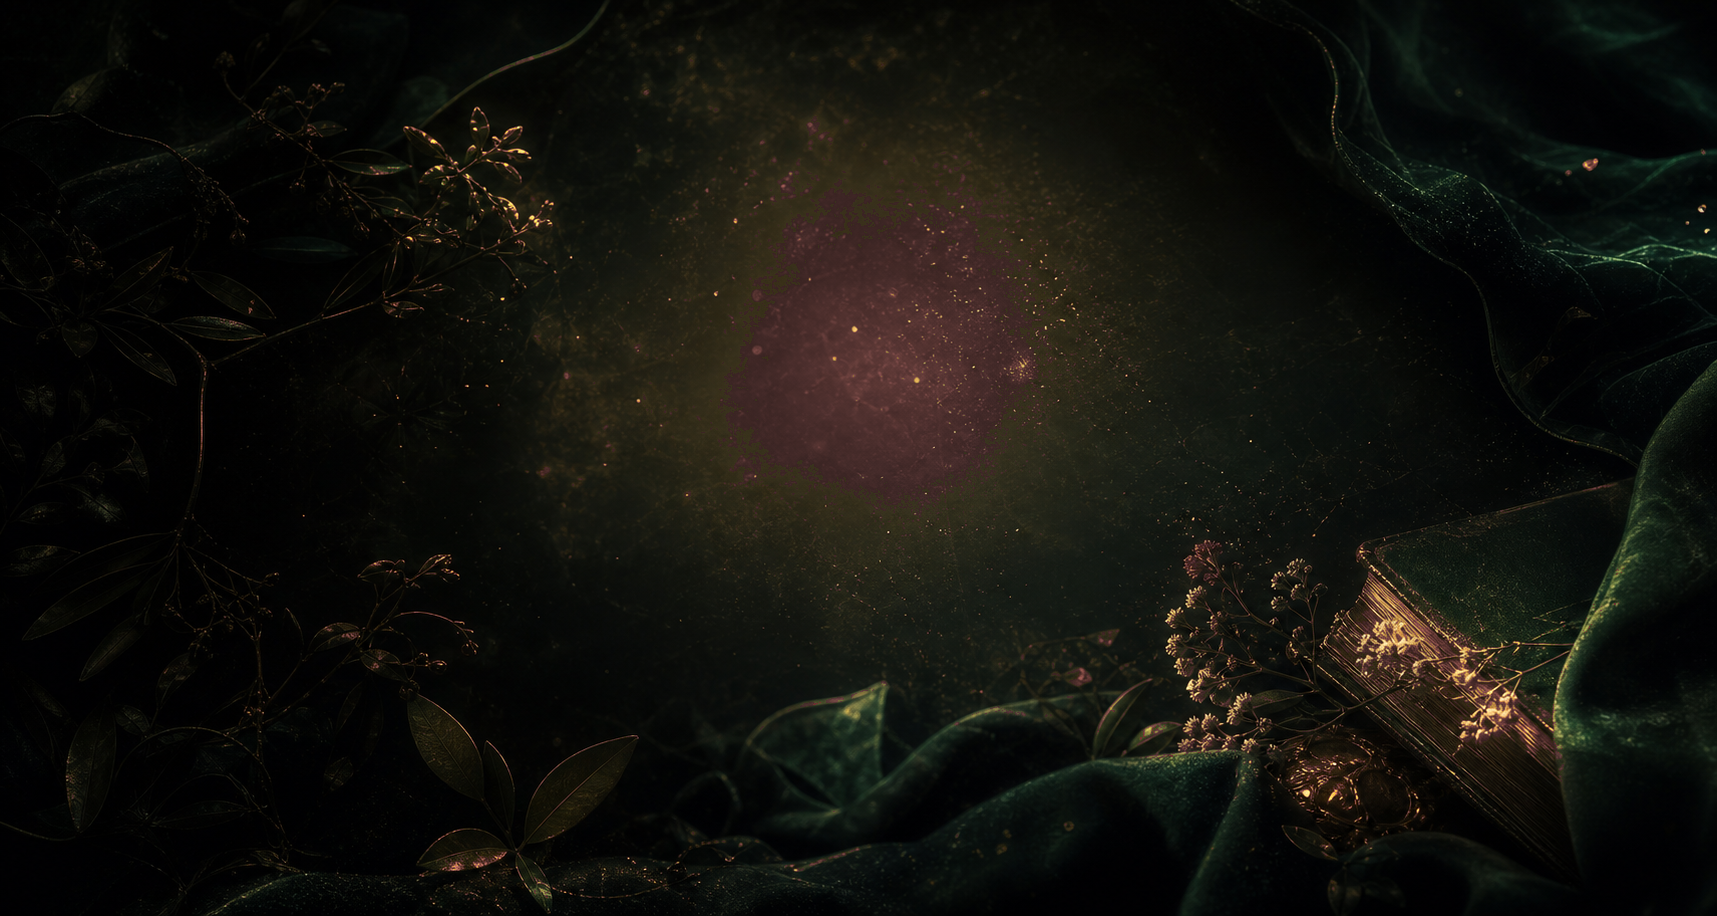
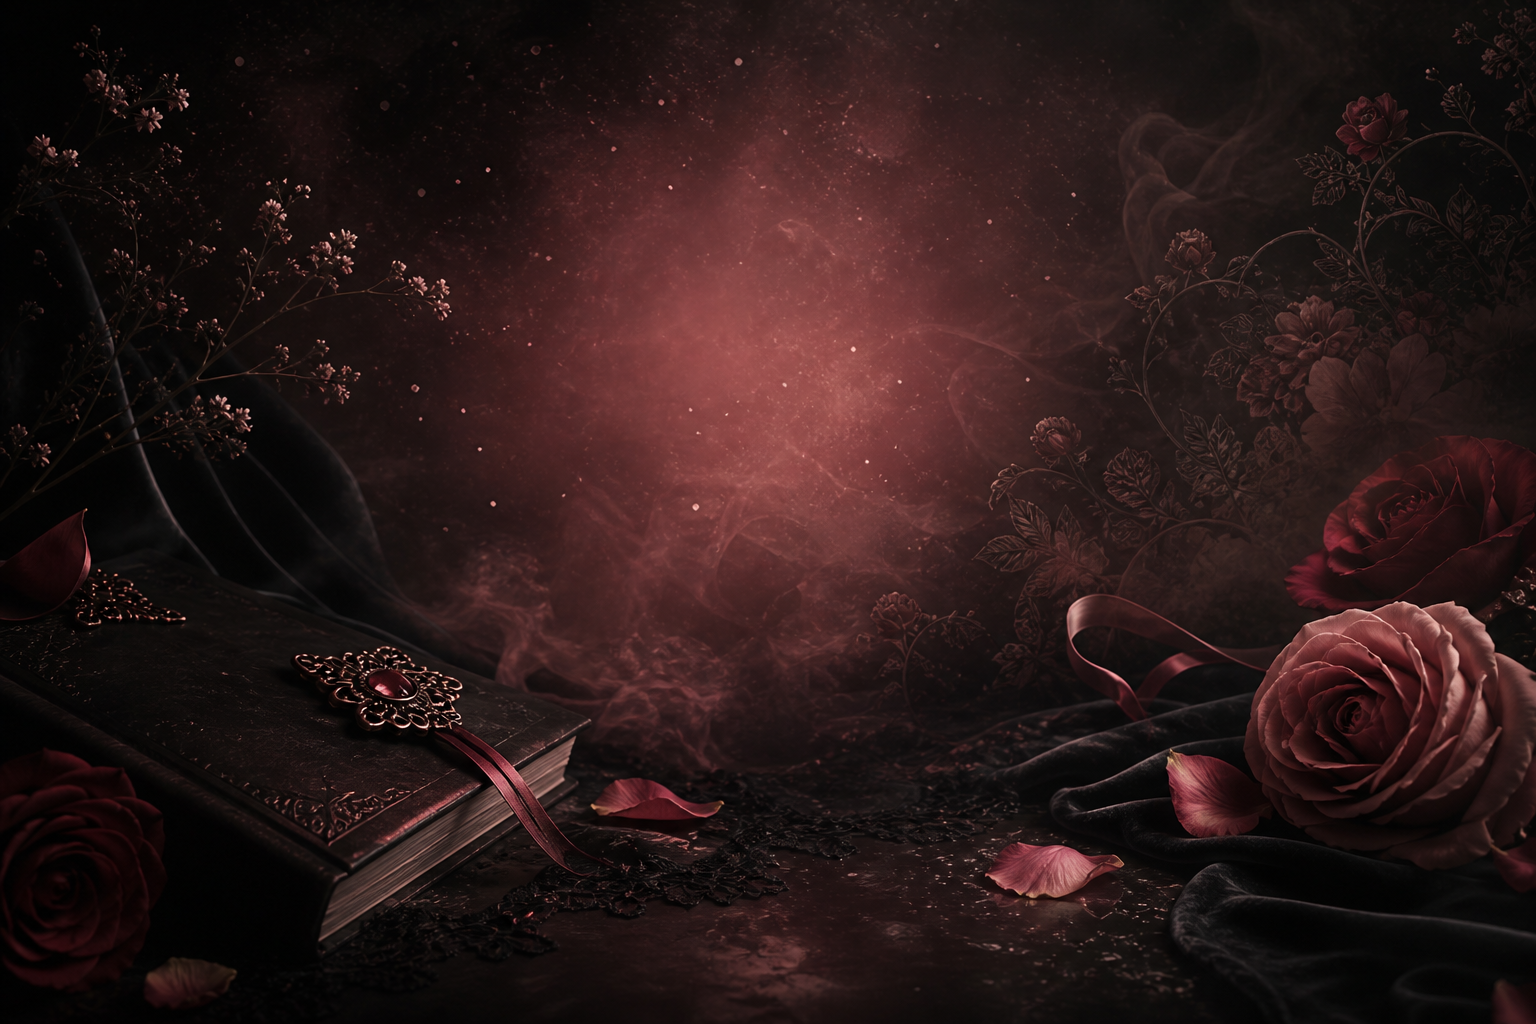
Make background and book cover more romantic

diff --git a/src/styles/global.css b/src/styles/global.css
@@ -39,7 +39,7 @@ body {
   margin: 0;
   min-width: 320px;
   background:
-    linear-gradient(180deg, rgba(13, 13, 13, 0.92), rgba(10, 36, 29, 0.82) 50%, rgba(13, 13, 13, 0.98)),
+    linear-gradient(180deg, rgba(13, 13, 13, 0.96), rgba(75, 8, 19, 0.44) 48%, rgba(13, 13, 13, 0.98)),
     var(--black);
   color: var(--ivory);
   font-family: var(--sans);
@@ -157,8 +157,8 @@ p {
   border: 1px solid rgba(192, 128, 136, 0.45);
   border-radius: 50%;
   background:
-    linear-gradient(145deg, rgba(18, 60, 47, 0.8), rgba(13, 13, 13, 0.98)),
-    var(--green-dark);
+    linear-gradient(145deg, rgba(75, 8, 19, 0.72), rgba(13, 13, 13, 0.98)),
+    var(--black);
   color: var(--ivory);
   font-family: var(--serif);
   font-size: 1.04rem;
@@ -252,8 +252,8 @@ p {
 .hero-vignette {
   z-index: -3;
   background:
-    linear-gradient(180deg, rgba(13, 13, 13, 0.68), rgba(13, 13, 13, 0.14) 42%, rgba(13, 13, 13, 0.9)),
-    radial-gradient(circle at 50% 50%, rgba(192, 128, 136, 0.18), rgba(18, 60, 47, 0.18) 34%, rgba(13, 13, 13, 0.72) 72%);
+    linear-gradient(180deg, rgba(13, 13, 13, 0.64), rgba(13, 13, 13, 0.1) 42%, rgba(13, 13, 13, 0.82)),
+    radial-gradient(circle at 50% 48%, rgba(192, 128, 136, 0.24), rgba(158, 31, 54, 0.18) 33%, rgba(13, 13, 13, 0.72) 72%);
 }
 
 .particle-field {
@@ -341,7 +341,7 @@ p {
   border-radius: 8px;
   padding: 0 22px;
   background:
-    linear-gradient(135deg, rgba(192, 128, 136, 0.2), rgba(18, 60, 47, 0.5)),
+    linear-gradient(135deg, rgba(192, 128, 136, 0.28), rgba(75, 8, 19, 0.62)),
     rgba(13, 13, 13, 0.58);
   color: var(--ivory);
   cursor: pointer;
@@ -395,8 +395,10 @@ p {
   border: 1px solid rgba(192, 128, 136, 0.62);
   border-radius: 10px 8px 8px 10px;
   background:
-    linear-gradient(90deg, rgba(0, 0, 0, 0.44), transparent 14%, rgba(255, 255, 255, 0.05) 15%, transparent 18%),
-    linear-gradient(145deg, #0a1714, #123c2f 45%, #050705);
+    radial-gradient(circle at 58% 28%, rgba(192, 128, 136, 0.22), transparent 34%),
+    linear-gradient(90deg, rgba(0, 0, 0, 0.58), transparent 13%, rgba(255, 255, 255, 0.06) 15%, transparent 19%),
+    linear-gradient(145deg, #0b0708, #2a0b13 48%, #090608 78%),
+    linear-gradient(180deg, rgba(158, 31, 54, 0.16), transparent);
   color: var(--ivory);
   cursor: pointer;
   box-shadow:
@@ -411,7 +413,7 @@ p {
 .book-cover::before {
   position: absolute;
   inset: 18px;
-  border: 1px solid rgba(192, 128, 136, 0.48);
+  border: 1px solid rgba(230, 188, 193, 0.48);
   border-radius: 8px;
   content: "";
   pointer-events: none;
@@ -421,8 +423,9 @@ p {
   position: absolute;
   inset: 0;
   background:
-    linear-gradient(115deg, rgba(255, 247, 239, 0.08), transparent 36%),
-    repeating-linear-gradient(90deg, rgba(255, 255, 255, 0.03) 0 1px, transparent 1px 4px);
+    linear-gradient(115deg, rgba(255, 255, 255, 0.08), transparent 36%),
+    radial-gradient(circle at 52% 54%, rgba(192, 128, 136, 0.12), transparent 46%),
+    repeating-linear-gradient(90deg, rgba(255, 255, 255, 0.028) 0 1px, transparent 1px 4px);
   content: "";
   mix-blend-mode: screen;
   opacity: 0.42;
@@ -478,13 +481,14 @@ p {
   line-height: 0.86;
   text-align: center;
   text-wrap: balance;
+  text-shadow: 0 8px 22px rgba(0, 0, 0, 0.58);
 }
 
 .cover-names {
   position: relative;
   z-index: 1;
   margin-top: 20px;
-  color: rgba(255, 247, 239, 0.76);
+  color: rgba(255, 255, 255, 0.82);
   font-weight: 700;
 }
 
@@ -529,7 +533,7 @@ p {
   width: 24px;
   background:
     linear-gradient(90deg, rgba(0, 0, 0, 0.34), rgba(192, 128, 136, 0.1), rgba(0, 0, 0, 0.26)),
-    linear-gradient(180deg, rgba(18, 60, 47, 0.2), transparent 20%, rgba(18, 60, 47, 0.18));
+    linear-gradient(180deg, rgba(158, 31, 54, 0.18), transparent 20%, rgba(192, 128, 136, 0.12));
   transform: translateX(-50%);
   pointer-events: none;
 }
@@ -780,7 +784,7 @@ p {
 .book-control:hover:not(:disabled),
 .book-control:focus-visible:not(:disabled) {
   border-color: rgba(255, 247, 239, 0.62);
-  background: rgba(18, 60, 47, 0.72);
+  background: rgba(75, 8, 19, 0.78);
   outline: none;
   transform: translateY(-1px);
 }
@@ -816,7 +820,7 @@ p {
 
 .story-section {
   background:
-    linear-gradient(180deg, rgba(13, 13, 13, 0.94), rgba(18, 60, 47, 0.22)),
+    linear-gradient(180deg, rgba(13, 13, 13, 0.96), rgba(75, 8, 19, 0.28)),
     var(--black);
 }
 
@@ -845,7 +849,7 @@ p {
 
 .timeline-section {
   background:
-    linear-gradient(180deg, rgba(18, 60, 47, 0.2), rgba(13, 13, 13, 0.98)),
+    linear-gradient(180deg, rgba(75, 8, 19, 0.18), rgba(13, 13, 13, 0.98)),
     var(--black);
 }
 
@@ -902,7 +906,7 @@ p {
   border: 1px solid rgba(143, 175, 143, 0.22);
   border-radius: 6px;
   background:
-    linear-gradient(135deg, rgba(18, 60, 47, 0.7), rgba(192, 128, 136, 0.12)),
+    linear-gradient(135deg, rgba(75, 8, 19, 0.72), rgba(192, 128, 136, 0.18)),
     linear-gradient(45deg, rgba(255, 247, 239, 0.06), transparent);
   color: rgba(255, 247, 239, 0.72);
   font-family: var(--serif);
@@ -932,7 +936,7 @@ p {
 
 .special-section {
   background:
-    linear-gradient(135deg, rgba(13, 13, 13, 0.98), rgba(43, 17, 22, 0.52) 48%, rgba(18, 60, 47, 0.46)),
+    linear-gradient(135deg, rgba(13, 13, 13, 0.98), rgba(75, 8, 19, 0.56) 52%, rgba(192, 128, 136, 0.16)),
     var(--black);
 }
 
@@ -986,8 +990,8 @@ p {
 
 .future-section {
   background:
-    linear-gradient(180deg, rgba(18, 60, 47, 0.78), rgba(13, 13, 13, 0.92)),
-    var(--green-dark);
+    linear-gradient(180deg, rgba(75, 8, 19, 0.78), rgba(13, 13, 13, 0.94)),
+    var(--black);
 }
 
 .future-intro {